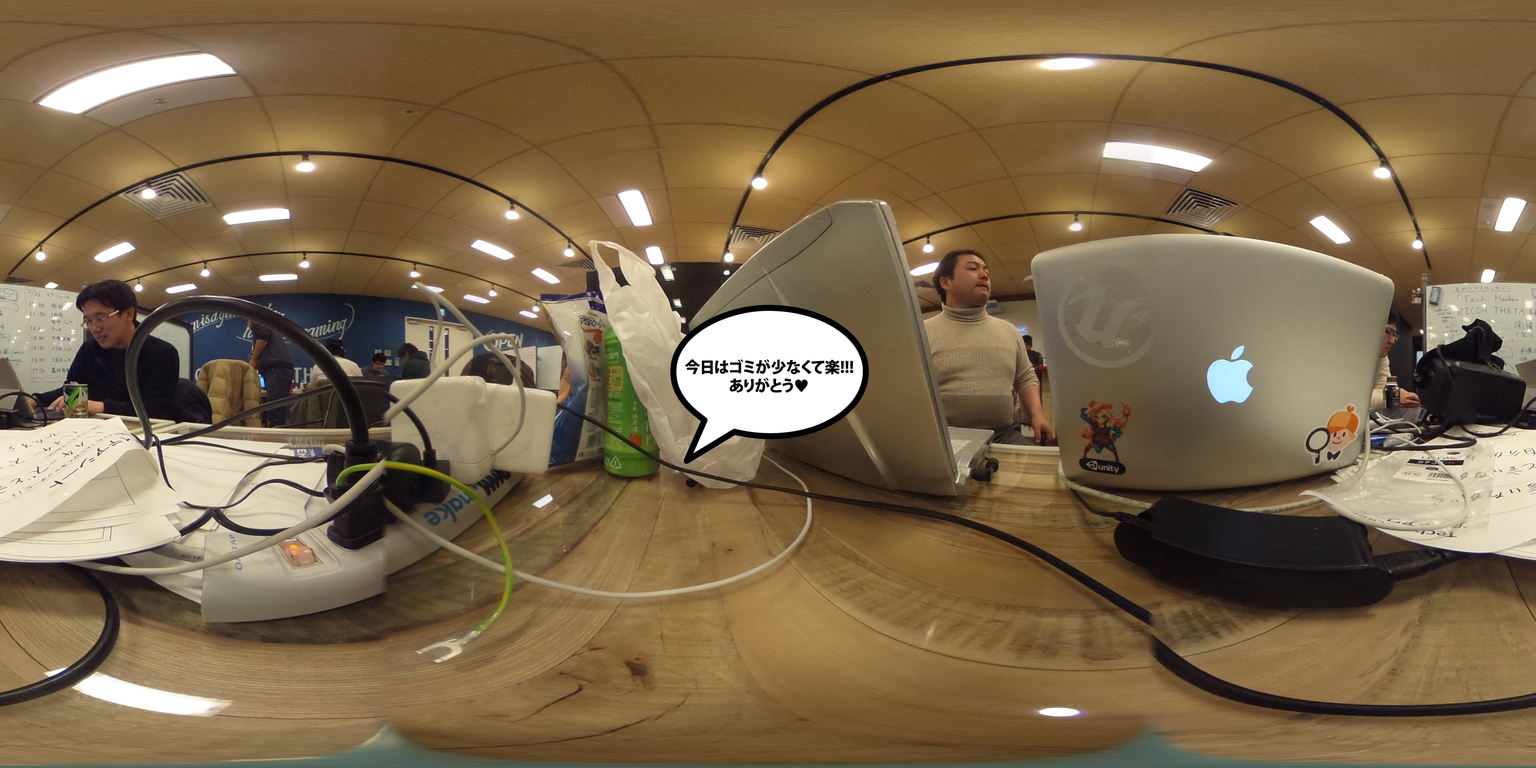
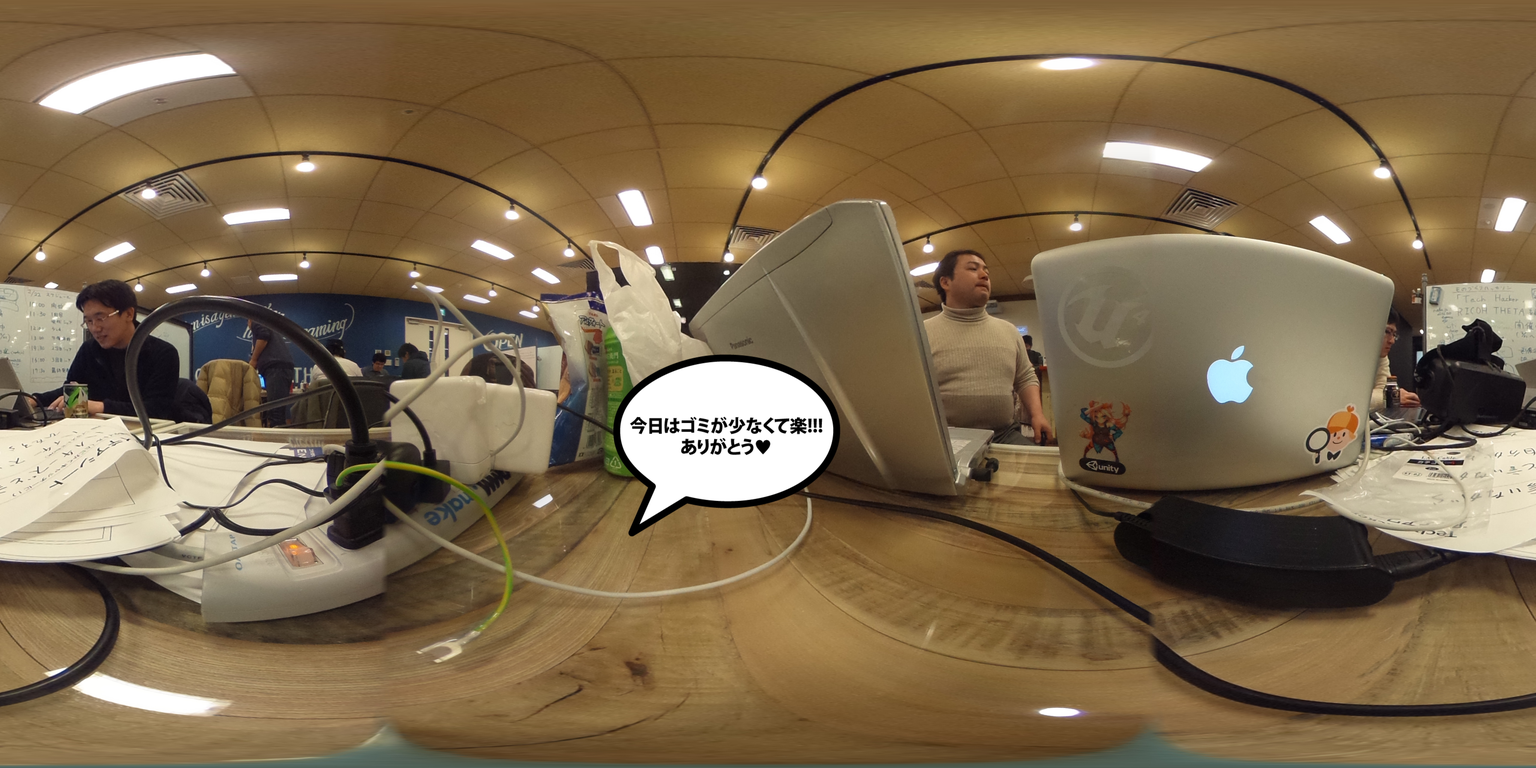
sample image

Changed region(s): [[0.375, 0.375, 0.5625, 0.6875]]

diff --git a/test.js b/test.js
@@ -6,9 +6,10 @@ var speech_balloon_image_dir='./resource/';
 var speech_balloon_imagepath= speech_balloon_image_dir + 'speechballoon_gomi_nashi.png';
 var out_dir=public_theta_dir;
 var outfile=out_dir + 'out.jpg';
+var sb_pos='600x600-100+200';
 
 im.convert([theta_imagepath, speech_balloon_imagepath, 
-'-gravity','northwest' '-geometry', '900x900+500+500','-composite',outfile], 
+'-gravity','center','-geometry', sb_pos,'-composite',outfile], 
 function(err, metadata){
 	if (err) throw err;
 	console.log("end");
